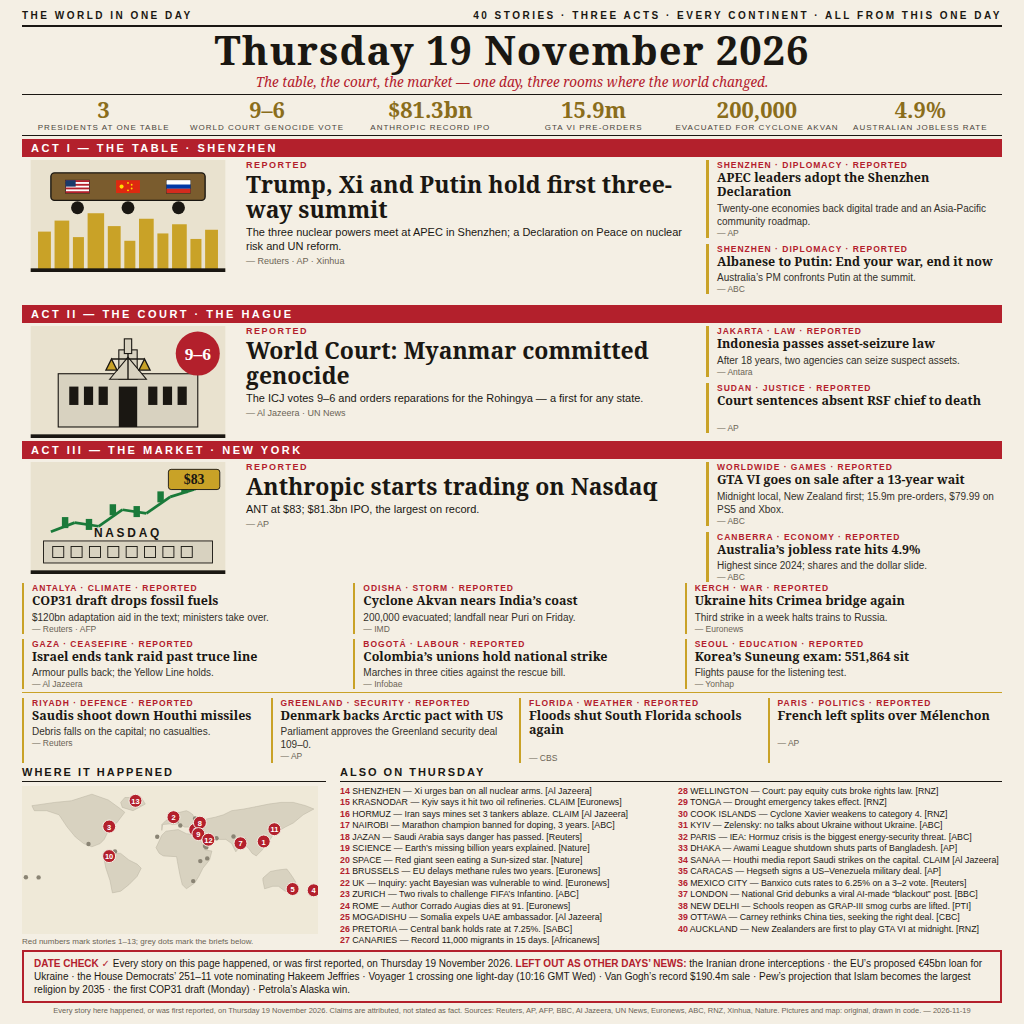
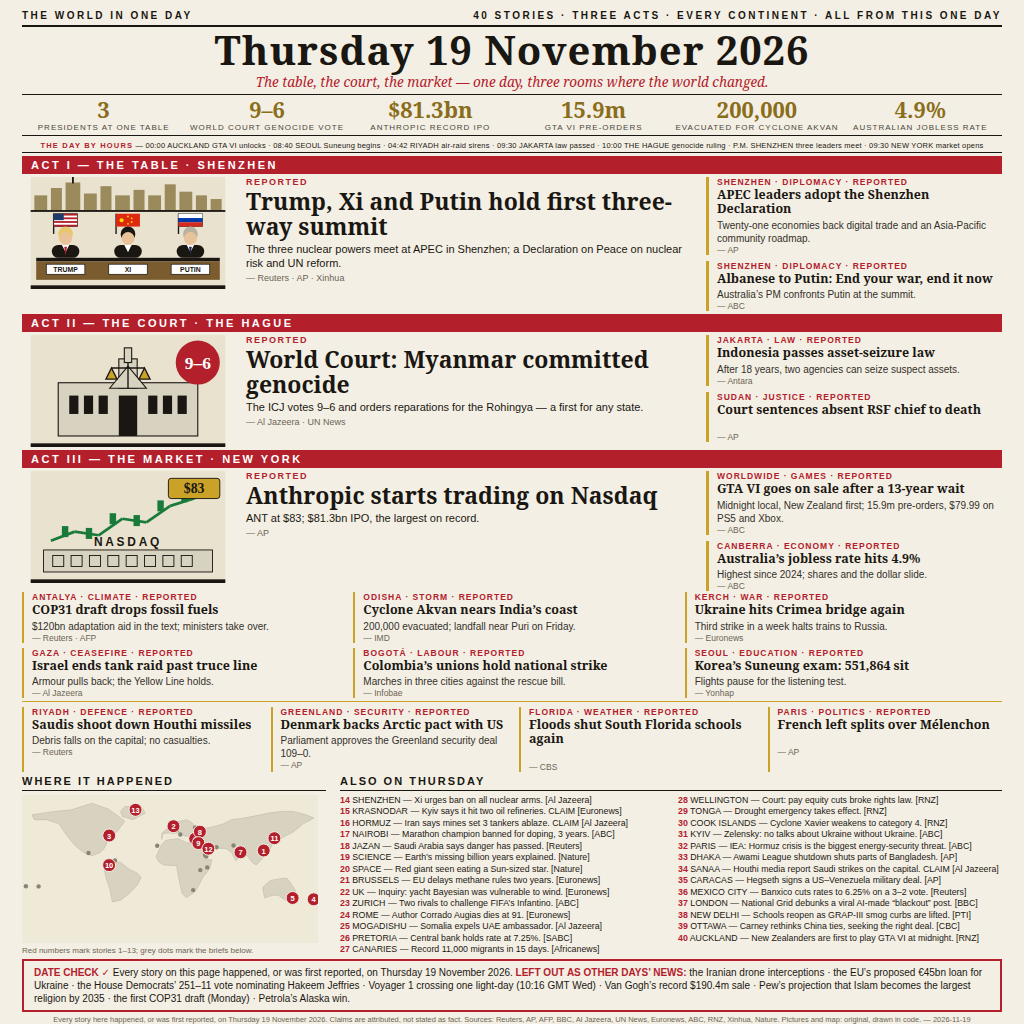
V2 rev1: richer Act I summit scene + Day by Hours strip

diff --git a/main.ts b/main.ts
@@ -79,6 +79,8 @@ body{background:#f4efe4}
 .strip{display:grid;grid-template-columns:repeat(6,1fr);border-top:1px solid #1a1712;border-bottom:1px solid #1a1712;padding:3px 0;text-align:center}
 .strip .num{font-family:Georgia,'Noto Serif','DejaVu Serif',serif;font-size:22px;font-weight:bold;color:#8a6d1b;line-height:1.05}
 .strip .lab{font-size:8px;letter-spacing:1px;text-transform:uppercase;color:#4a453c;margin-top:2px}
+.hours{font-size:7.5px;letter-spacing:0.2px;text-align:center;padding:2px 0;border-bottom:1px solid #1a1712;white-space:nowrap}
+.hours b{color:#b3202c;letter-spacing:1.2px}
 .actbar{background:#b3202c;color:#fff;font-size:11px;font-weight:bold;letter-spacing:2.5px;padding:3px 9px}
 .actrow{display:grid;grid-template-columns:212px 1fr 296px;gap:12px;height:112px;align-items:start}
 .actrow.tall{height:148px}
@@ -123,9 +125,11 @@ svg{display:block}
 <div><div class="num">4.9%</div><div class="lab">Australian jobless rate</div></div>
 </div>
 
+<div class="hours"><b>THE DAY BY HOURS</b> &mdash; 00:00 AUCKLAND GTA VI unlocks &middot; 08:40 SEOUL Suneung begins &middot; 04:42 RIYADH air-raid sirens &middot; 09:30 JAKARTA law passed &middot; 10:00 THE HAGUE genocide ruling &middot; P.M. SHENZHEN three leaders meet &middot; 09:30 NEW YORK market opens</div>
+
 <div class="actbar">ACT I &mdash; THE TABLE &middot; SHENZHEN</div>
 <div class="actrow tall">
-<svg width="212" height="112" viewBox="0 0 212 122"><rect width="212" height="122" fill="#e9e2cf"/><g fill="#c9a227"><rect x="8" y="78" width="14" height="44"/><rect x="26" y="66" width="16" height="56"/><rect x="46" y="84" width="12" height="38"/><rect x="62" y="58" width="18" height="64"/><rect x="84" y="72" width="14" height="50"/><rect x="102" y="88" width="12" height="34"/><rect x="118" y="64" width="16" height="58"/><rect x="138" y="80" width="12" height="42"/><rect x="154" y="70" width="16" height="52"/><rect x="174" y="86" width="12" height="36"/><rect x="190" y="76" width="14" height="46"/></g><rect x="0" y="118" width="212" height="4" fill="#1a1712"/><rect x="22" y="14" width="168" height="30" rx="4" fill="#7a5c2e"/><rect x="22" y="14" width="168" height="30" rx="4" fill="none" stroke="#1a1712" stroke-width="1.5"/><g><rect x="38" y="22" width="26" height="14" fill="#fff" stroke="#1a1712" stroke-width="0.8"/><g fill="#b3202c"><rect x="38" y="22" width="26" height="2"/><rect x="38" y="26" width="26" height="2"/><rect x="38" y="30" width="26" height="2"/><rect x="38" y="34" width="26" height="2"/></g><rect x="38" y="22" width="11" height="7" fill="#1a3a6b"/></g><g><rect x="93" y="22" width="26" height="14" fill="#de2910"/><circle cx="99" cy="29" r="2.2" fill="#ffde00"/><circle cx="106" cy="25" r="1" fill="#ffde00"/><circle cx="110" cy="27" r="1" fill="#ffde00"/><circle cx="110" cy="31" r="1" fill="#ffde00"/><circle cx="106" cy="33" r="1" fill="#ffde00"/></g><g><rect x="148" y="22" width="26" height="14" fill="#fff" stroke="#1a1712" stroke-width="0.8"/><rect x="148" y="22" width="26" height="4.7" fill="#fff"/><rect x="148" y="26.7" width="26" height="4.7" fill="#0039a6"/><rect x="148" y="31.3" width="26" height="4.7" fill="#d52b1e"/></g><circle cx="51" cy="52" r="7" fill="#1a1712"/><circle cx="106" cy="52" r="7" fill="#1a1712"/><circle cx="161" cy="52" r="7" fill="#1a1712"/></svg>
+<svg width="212" height="112" viewBox="0 0 212 122"><rect width="212" height="122" fill="#e9e2cf"/><g fill="#9a8a5c"><rect x="4" y="20" width="14" height="16"/><rect x="22" y="12" width="12" height="24"/><rect x="38" y="6" width="16" height="30"/><rect x="58" y="18" width="14" height="18"/><rect x="76" y="10" width="12" height="26"/><rect x="92" y="20" width="16" height="16"/><rect x="112" y="14" width="12" height="22"/><rect x="128" y="20" width="14" height="16"/><rect x="146" y="8" width="12" height="28"/><rect x="162" y="16" width="14" height="20"/><rect x="180" y="20" width="12" height="16"/><rect x="196" y="24" width="12" height="12"/></g><rect x="45" y="0" width="2" height="7" fill="#1a1712"/><rect x="0" y="36" width="212" height="2" fill="#1a1712"/><g stroke="#1a1712" stroke-width="1.5"><line x1="25" y1="40" x2="25" y2="62"/><line x1="93" y1="40" x2="93" y2="62"/><line x1="161" y1="40" x2="161" y2="62"/></g><g><rect x="25" y="40" width="26" height="14" fill="#fff" stroke="#1a1712" stroke-width="0.8"/><g fill="#b3202c"><rect x="25" y="40" width="26" height="2"/><rect x="25" y="44" width="26" height="2"/><rect x="25" y="48" width="26" height="2"/><rect x="25" y="52" width="26" height="2"/></g><rect x="25" y="40" width="11" height="7" fill="#1a3a6b"/></g><g><rect x="93" y="40" width="26" height="14" fill="#de2910"/><circle cx="99" cy="47" r="2.2" fill="#ffde00"/><circle cx="106" cy="43" r="1" fill="#ffde00"/><circle cx="110" cy="45" r="1" fill="#ffde00"/><circle cx="110" cy="49" r="1" fill="#ffde00"/><circle cx="106" cy="51" r="1" fill="#ffde00"/></g><g><rect x="161" y="40" width="26" height="14" fill="#fff" stroke="#1a1712" stroke-width="0.8"/><rect x="161" y="40" width="26" height="4.7" fill="#fff"/><rect x="161" y="44.7" width="26" height="4.7" fill="#0039a6"/><rect x="161" y="49.3" width="26" height="4.7" fill="#d52b1e"/></g><g><circle cx="38" cy="62" r="8" fill="#e8c86a"/><circle cx="38" cy="67" r="7" fill="#e8c39a"/><rect x="23" y="74" width="30" height="14" rx="7" fill="#1a1712"/><path d="M34 74 L42 74 L38 82 Z" fill="#fff"/><path d="M36.5 76 L39.5 76 L38 86 Z" fill="#b3202c"/></g><g><circle cx="106" cy="62" r="8" fill="#1a1712"/><circle cx="106" cy="67" r="7" fill="#e8c39a"/><rect x="91" y="74" width="30" height="14" rx="7" fill="#1a1712"/><path d="M102 74 L110 74 L106 82 Z" fill="#fff"/></g><g><circle cx="174" cy="62" r="8" fill="#b9b2a0"/><circle cx="174" cy="67" r="7" fill="#e8c39a"/><rect x="159" y="74" width="30" height="14" rx="7" fill="#1a1712"/><path d="M170 74 L178 74 L174 82 Z" fill="#fff"/><path d="M172.5 76 L175.5 76 L174 86 Z" fill="#1f2a44"/></g><rect x="6" y="88" width="200" height="4" fill="#1a1712"/><rect x="6" y="92" width="200" height="20" fill="#7a5c2e"/><g><rect x="17" y="95" width="42" height="11" fill="#fff" stroke="#1a1712" stroke-width="0.8"/><text x="38" y="103" font-size="7.5" font-weight="bold" fill="#1a1712" text-anchor="middle" font-family="Arial">TRUMP</text></g><g><rect x="85" y="95" width="42" height="11" fill="#fff" stroke="#1a1712" stroke-width="0.8"/><text x="106" y="103" font-size="7.5" font-weight="bold" fill="#1a1712" text-anchor="middle" font-family="Arial">XI</text></g><g><rect x="153" y="95" width="42" height="11" fill="#fff" stroke="#1a1712" stroke-width="0.8"/><text x="174" y="103" font-size="7.5" font-weight="bold" fill="#1a1712" text-anchor="middle" font-family="Arial">PUTIN</text></g><rect x="0" y="118" width="212" height="4" fill="#1a1712"/></svg>
 <div class="lead"><div class="tag">REPORTED</div><h2>Trump, Xi and Putin hold first three-way summit</h2><p>The three nuclear powers meet at APEC in Shenzhen; a Declaration on Peace on nuclear risk and UN reform.</p><div class="src">&mdash; Reuters &middot; AP &middot; Xinhua</div></div>
 <div class="tiles">
 <div class="tile"><div class="kick">SHENZHEN &middot; DIPLOMACY &middot; REPORTED</div><h3>APEC leaders adopt the Shenzhen Declaration</h3><p>Twenty-one economies back digital trade and an Asia-Pacific community roadmap.</p><div class="src">&mdash; AP</div></div>

diff --git a/render.html b/render.html
@@ -9,6 +9,8 @@ body{background:#f4efe4}
 .strip{display:grid;grid-template-columns:repeat(6,1fr);border-top:1px solid #1a1712;border-bottom:1px solid #1a1712;padding:3px 0;text-align:center}
 .strip .num{font-family:Georgia,'Noto Serif','DejaVu Serif',serif;font-size:22px;font-weight:bold;color:#8a6d1b;line-height:1.05}
 .strip .lab{font-size:8px;letter-spacing:1px;text-transform:uppercase;color:#4a453c;margin-top:2px}
+.hours{font-size:7.5px;letter-spacing:0.2px;text-align:center;padding:2px 0;border-bottom:1px solid #1a1712;white-space:nowrap}
+.hours b{color:#b3202c;letter-spacing:1.2px}
 .actbar{background:#b3202c;color:#fff;font-size:11px;font-weight:bold;letter-spacing:2.5px;padding:3px 9px}
 .actrow{display:grid;grid-template-columns:212px 1fr 296px;gap:12px;height:112px;align-items:start}
 .actrow.tall{height:148px}
@@ -53,9 +55,11 @@ svg{display:block}
 <div><div class="num">4.9%</div><div class="lab">Australian jobless rate</div></div>
 </div>
 
+<div class="hours"><b>THE DAY BY HOURS</b> &mdash; 00:00 AUCKLAND GTA VI unlocks &middot; 08:40 SEOUL Suneung begins &middot; 04:42 RIYADH air-raid sirens &middot; 09:30 JAKARTA law passed &middot; 10:00 THE HAGUE genocide ruling &middot; P.M. SHENZHEN three leaders meet &middot; 09:30 NEW YORK market opens</div>
+
 <div class="actbar">ACT I &mdash; THE TABLE &middot; SHENZHEN</div>
 <div class="actrow tall">
-<svg width="212" height="112" viewBox="0 0 212 122"><rect width="212" height="122" fill="#e9e2cf"/><g fill="#c9a227"><rect x="8" y="78" width="14" height="44"/><rect x="26" y="66" width="16" height="56"/><rect x="46" y="84" width="12" height="38"/><rect x="62" y="58" width="18" height="64"/><rect x="84" y="72" width="14" height="50"/><rect x="102" y="88" width="12" height="34"/><rect x="118" y="64" width="16" height="58"/><rect x="138" y="80" width="12" height="42"/><rect x="154" y="70" width="16" height="52"/><rect x="174" y="86" width="12" height="36"/><rect x="190" y="76" width="14" height="46"/></g><rect x="0" y="118" width="212" height="4" fill="#1a1712"/><rect x="22" y="14" width="168" height="30" rx="4" fill="#7a5c2e"/><rect x="22" y="14" width="168" height="30" rx="4" fill="none" stroke="#1a1712" stroke-width="1.5"/><g><rect x="38" y="22" width="26" height="14" fill="#fff" stroke="#1a1712" stroke-width="0.8"/><g fill="#b3202c"><rect x="38" y="22" width="26" height="2"/><rect x="38" y="26" width="26" height="2"/><rect x="38" y="30" width="26" height="2"/><rect x="38" y="34" width="26" height="2"/></g><rect x="38" y="22" width="11" height="7" fill="#1a3a6b"/></g><g><rect x="93" y="22" width="26" height="14" fill="#de2910"/><circle cx="99" cy="29" r="2.2" fill="#ffde00"/><circle cx="106" cy="25" r="1" fill="#ffde00"/><circle cx="110" cy="27" r="1" fill="#ffde00"/><circle cx="110" cy="31" r="1" fill="#ffde00"/><circle cx="106" cy="33" r="1" fill="#ffde00"/></g><g><rect x="148" y="22" width="26" height="14" fill="#fff" stroke="#1a1712" stroke-width="0.8"/><rect x="148" y="22" width="26" height="4.7" fill="#fff"/><rect x="148" y="26.7" width="26" height="4.7" fill="#0039a6"/><rect x="148" y="31.3" width="26" height="4.7" fill="#d52b1e"/></g><circle cx="51" cy="52" r="7" fill="#1a1712"/><circle cx="106" cy="52" r="7" fill="#1a1712"/><circle cx="161" cy="52" r="7" fill="#1a1712"/></svg>
+<svg width="212" height="112" viewBox="0 0 212 122"><rect width="212" height="122" fill="#e9e2cf"/><g fill="#9a8a5c"><rect x="4" y="20" width="14" height="16"/><rect x="22" y="12" width="12" height="24"/><rect x="38" y="6" width="16" height="30"/><rect x="58" y="18" width="14" height="18"/><rect x="76" y="10" width="12" height="26"/><rect x="92" y="20" width="16" height="16"/><rect x="112" y="14" width="12" height="22"/><rect x="128" y="20" width="14" height="16"/><rect x="146" y="8" width="12" height="28"/><rect x="162" y="16" width="14" height="20"/><rect x="180" y="20" width="12" height="16"/><rect x="196" y="24" width="12" height="12"/></g><rect x="45" y="0" width="2" height="7" fill="#1a1712"/><rect x="0" y="36" width="212" height="2" fill="#1a1712"/><g stroke="#1a1712" stroke-width="1.5"><line x1="25" y1="40" x2="25" y2="62"/><line x1="93" y1="40" x2="93" y2="62"/><line x1="161" y1="40" x2="161" y2="62"/></g><g><rect x="25" y="40" width="26" height="14" fill="#fff" stroke="#1a1712" stroke-width="0.8"/><g fill="#b3202c"><rect x="25" y="40" width="26" height="2"/><rect x="25" y="44" width="26" height="2"/><rect x="25" y="48" width="26" height="2"/><rect x="25" y="52" width="26" height="2"/></g><rect x="25" y="40" width="11" height="7" fill="#1a3a6b"/></g><g><rect x="93" y="40" width="26" height="14" fill="#de2910"/><circle cx="99" cy="47" r="2.2" fill="#ffde00"/><circle cx="106" cy="43" r="1" fill="#ffde00"/><circle cx="110" cy="45" r="1" fill="#ffde00"/><circle cx="110" cy="49" r="1" fill="#ffde00"/><circle cx="106" cy="51" r="1" fill="#ffde00"/></g><g><rect x="161" y="40" width="26" height="14" fill="#fff" stroke="#1a1712" stroke-width="0.8"/><rect x="161" y="40" width="26" height="4.7" fill="#fff"/><rect x="161" y="44.7" width="26" height="4.7" fill="#0039a6"/><rect x="161" y="49.3" width="26" height="4.7" fill="#d52b1e"/></g><g><circle cx="38" cy="62" r="8" fill="#e8c86a"/><circle cx="38" cy="67" r="7" fill="#e8c39a"/><rect x="23" y="74" width="30" height="14" rx="7" fill="#1a1712"/><path d="M34 74 L42 74 L38 82 Z" fill="#fff"/><path d="M36.5 76 L39.5 76 L38 86 Z" fill="#b3202c"/></g><g><circle cx="106" cy="62" r="8" fill="#1a1712"/><circle cx="106" cy="67" r="7" fill="#e8c39a"/><rect x="91" y="74" width="30" height="14" rx="7" fill="#1a1712"/><path d="M102 74 L110 74 L106 82 Z" fill="#fff"/></g><g><circle cx="174" cy="62" r="8" fill="#b9b2a0"/><circle cx="174" cy="67" r="7" fill="#e8c39a"/><rect x="159" y="74" width="30" height="14" rx="7" fill="#1a1712"/><path d="M170 74 L178 74 L174 82 Z" fill="#fff"/><path d="M172.5 76 L175.5 76 L174 86 Z" fill="#1f2a44"/></g><rect x="6" y="88" width="200" height="4" fill="#1a1712"/><rect x="6" y="92" width="200" height="20" fill="#7a5c2e"/><g><rect x="17" y="95" width="42" height="11" fill="#fff" stroke="#1a1712" stroke-width="0.8"/><text x="38" y="103" font-size="7.5" font-weight="bold" fill="#1a1712" text-anchor="middle" font-family="Arial">TRUMP</text></g><g><rect x="85" y="95" width="42" height="11" fill="#fff" stroke="#1a1712" stroke-width="0.8"/><text x="106" y="103" font-size="7.5" font-weight="bold" fill="#1a1712" text-anchor="middle" font-family="Arial">XI</text></g><g><rect x="153" y="95" width="42" height="11" fill="#fff" stroke="#1a1712" stroke-width="0.8"/><text x="174" y="103" font-size="7.5" font-weight="bold" fill="#1a1712" text-anchor="middle" font-family="Arial">PUTIN</text></g><rect x="0" y="118" width="212" height="4" fill="#1a1712"/></svg>
 <div class="lead"><div class="tag">REPORTED</div><h2>Trump, Xi and Putin hold first three-way summit</h2><p>The three nuclear powers meet at APEC in Shenzhen; a Declaration on Peace on nuclear risk and UN reform.</p><div class="src">&mdash; Reuters &middot; AP &middot; Xinhua</div></div>
 <div class="tiles">
 <div class="tile"><div class="kick">SHENZHEN &middot; DIPLOMACY &middot; REPORTED</div><h3>APEC leaders adopt the Shenzhen Declaration</h3><p>Twenty-one economies back digital trade and an Asia-Pacific community roadmap.</p><div class="src">&mdash; AP</div></div>
